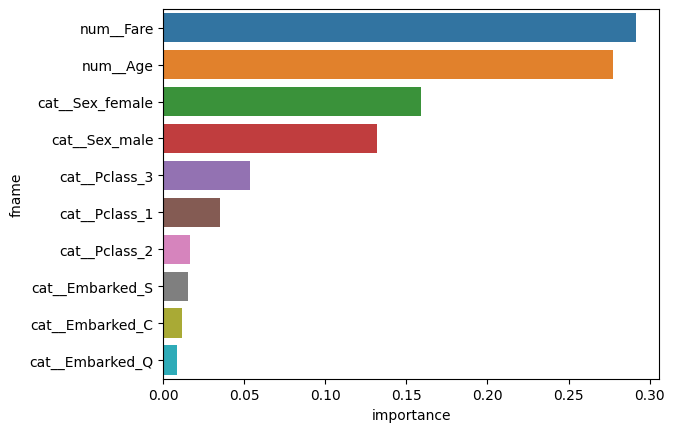
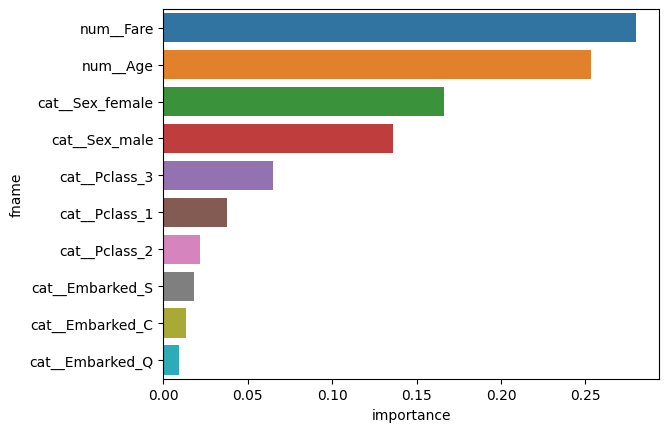
Best Random Foers Gird Search

diff --git a/src/rf_rnd_grid_search.py b/src/rf_rnd_grid_search.py
@@ -3,8 +3,7 @@ import subprocess
 import random
 
 random.seed(0)
-
-num_exp = 50
+num_exp = 30
 
 for _ in range(num_exp):
     
